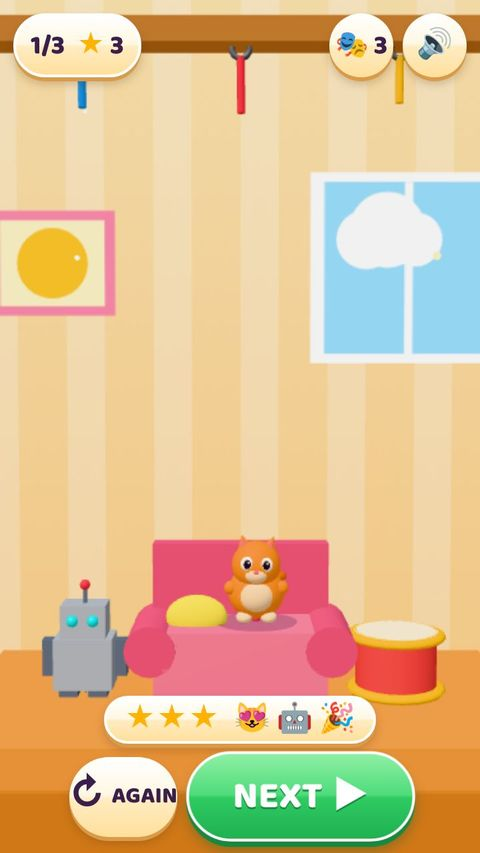
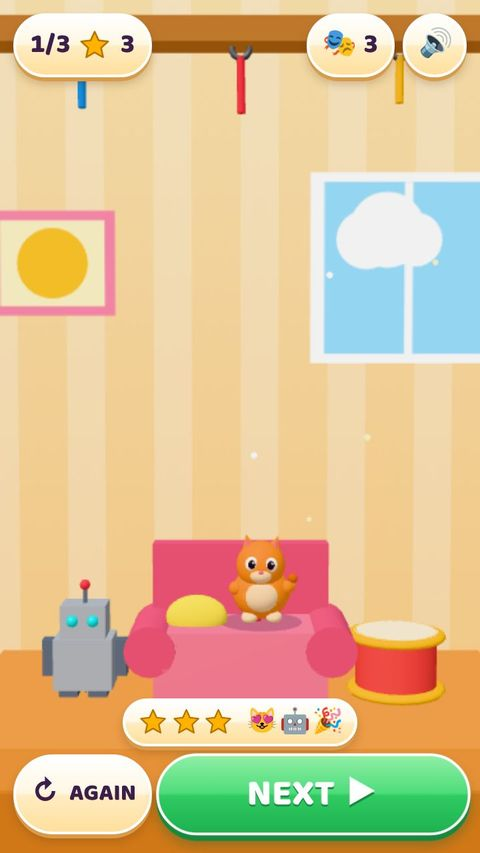
fix: Snip It HUD lays itself out on one spacing system and fits its words (#160)
The HUD was placed with loose numbers; only the prompt shrank to fit.
Now three flex zones (top row, centred column, win bar) built from three
tokens (margin 20, gap 12, control height 96), every word in a box that
shrinks to fit, icons as centred square boxes, SVG stars, RTL by
direction. New layout.js measures it in 8 languages (tolerance 2); it
caught a generic button rule wiping pill padding and borders.

Brief: prototypes/snip-it/brief.md

Claude-Session: https://claude.ai/code/session_01S4KwR7WSNC21RXJ9SR4hRZ

diff --git a/prototypes/snip-it/index.html b/prototypes/snip-it/index.html
@@ -15,45 +15,58 @@ html,body{margin:0;height:100%;background:#ffe9b8;overflow:hidden;font-family:"B
 button{font-family:inherit;font-weight:800}
 [hidden]{display:none!important}
 body{display:flex;align-items:center;justify-content:center}
-#app{position:relative;width:min(100vw,calc(100vh*9/16));height:min(100vh,calc(100vw*16/9));overflow:hidden;touch-action:none;user-select:none;-webkit-user-select:none;--u:1;--ink:#3b1f4a;--m:calc(var(--u)*20px);--g:calc(var(--u)*14px);background:#ffe9b8}
+#app{position:relative;width:min(100vw,calc(100vh*9/16));height:min(100vh,calc(100vw*16/9));overflow:hidden;touch-action:none;user-select:none;-webkit-user-select:none;--u:1;--ink:#3b1f4a;--m:calc(var(--u)*20px);--g:calc(var(--u)*12px);--h:calc(var(--u)*96px);background:#ffe9b8}
 #cv{position:absolute;inset:0;width:100%;height:100%;display:block}
-.hud{position:absolute;inset:0;pointer-events:none;color:var(--ink);font-size:calc(var(--u)*34px)}
-.hud button{pointer-events:auto;border:0;cursor:pointer;-webkit-tap-highlight-color:transparent;color:var(--ink);padding:0}
+/* HUD. One spacing system, in frame units (--u = frame width / 720):
+   --m page margin and inner padding, --g gap between neighbours, --h height of a control.
+   Three flex zones (.top, .mid, .bar) lay themselves out; nothing below is placed with a loose number. */
+.hud{position:absolute;inset:0;pointer-events:none;color:var(--ink);--b:calc(var(--u)*4px);--sh:calc(var(--u)*8px);font-size:calc(var(--h)*.42);line-height:1}
+.hud button{pointer-events:auto;cursor:pointer;-webkit-tap-highlight-color:transparent;color:var(--ink);margin:0;font-size:inherit;line-height:1}
 .hud i{font-style:normal}
-.hud.edit .pill,.hud.edit .round,.hud.edit .hand,.hud.edit .bar{display:none}
+.hud.edit .top,.hud.edit .pill,.hud.edit .mid,.hud.edit .hand,.hud.edit .bar{display:none}
 .out{--o:calc(var(--u)*4px);color:#fff;text-shadow:var(--o) 0 0 var(--ink),calc(var(--o)*-1) 0 0 var(--ink),0 var(--o) 0 var(--ink),0 calc(var(--o)*-1) 0 var(--ink),var(--o) var(--o) 0 var(--ink),calc(var(--o)*-1) var(--o) 0 var(--ink),var(--o) calc(var(--o)*-1) 0 var(--ink),calc(var(--o)*-1) calc(var(--o)*-1) 0 var(--ink),0 calc(var(--o)*2) 0 var(--ink)}
-.gloss{border:calc(var(--u)*4px) solid #fff;background:linear-gradient(#fff 0,#fff7e3 48%,#ffecc2 52%,#ffdf9c 100%);box-shadow:0 calc(var(--u)*6px) 0 #d99a4a,0 calc(var(--u)*10px) calc(var(--u)*14px) rgba(90,50,10,.25)}
-.pill{position:absolute;top:var(--m);box-sizing:border-box;height:calc(var(--u)*96px);min-width:calc(var(--u)*96px);display:flex;align-items:center;justify-content:center;gap:calc(var(--u)*8px);padding:0 calc(var(--u)*22px);border-radius:999px;font-size:calc(var(--u)*40px);line-height:1;direction:ltr}
-#lvl{left:var(--m)}
-[dir=rtl] #lvl{left:auto;right:var(--m)}
-#lvl .star{color:#ffb300;margin-inline-start:calc(var(--u)*10px)}
-#book{right:calc(var(--m) + var(--u)*96px + var(--g))}
-[dir=rtl] #book{right:auto;left:calc(var(--m) + var(--u)*96px + var(--g))}
-.round{position:absolute;top:var(--m);right:var(--m);box-sizing:border-box;width:calc(var(--u)*96px);height:calc(var(--u)*96px);border-radius:50%;font-size:calc(var(--u)*44px);display:grid;place-items:center}
-[dir=rtl] .round{right:auto;left:var(--m)}
-.prompt{position:absolute;top:calc(var(--u)*150px);left:0;right:0;text-align:center;font-size:calc(var(--u)*72px*var(--k,1));line-height:1.15;padding:0 var(--m);white-space:nowrap}
+.gloss{border:var(--b) solid #fff;background:linear-gradient(#fff 0,#fff7e3 48%,#ffecc2 52%,#ffdf9c 100%);box-shadow:0 calc(var(--sh)*.75) 0 #d99a4a,0 calc(var(--sh)*1.25) calc(var(--sh)*1.75) rgba(90,50,10,.25)}
+/* words that shrink to their box: the game sets --k (ui.js fit) */
+[data-fit]{display:block;min-width:0;white-space:nowrap;font-size:calc(var(--fs)*var(--k,1))}
+/* an icon is a square box, centred as a box whatever the glyph inside */
+.ic{flex:none;display:grid;place-items:center;width:var(--i);height:var(--i);font-size:calc(var(--i)*.86);line-height:1;--i:calc(var(--h)*.5)}
+.ic svg{display:block;width:100%;height:100%}
+.num{font-variant-numeric:tabular-nums;direction:ltr;white-space:nowrap}
+.pill{box-sizing:border-box;flex:none;height:var(--h);min-width:var(--h);display:flex;align-items:center;justify-content:center;gap:var(--g);padding:0 var(--m);border-radius:var(--h)}
+.pill.sq{width:var(--h);padding:0}
+/* top row: level and stars at the start, stickers and sound at the end */
+.top{position:absolute;top:var(--m);left:var(--m);right:var(--m);height:var(--h);display:flex;align-items:center;gap:var(--g)}
+.grow{flex:1 1 0;min-width:0}
+/* under it, centred: the words, then the place of the sticker card */
+.mid{position:absolute;top:calc(var(--m) + var(--h) + var(--g));left:var(--m);right:var(--m);display:flex;flex-direction:column;align-items:center;gap:var(--g)}
+.prompt{width:100%;text-align:center;--fs:calc(var(--h)*.75);line-height:1.2}
 .prompt.in{animation:u-pop .5s ease-out}
 @keyframes u-pop{0%{transform:scale(.4);opacity:0}70%{transform:scale(1.08);opacity:1}100%{transform:none}}
-/* the swipe hint: a finger sliding across the rope */
-.hand{position:absolute;font-size:calc(var(--u)*110px);line-height:1;margin:calc(var(--u)*-20px) 0 0 calc(var(--u)*-55px);filter:drop-shadow(0 calc(var(--u)*6px) calc(var(--u)*4px) rgba(0,0,0,.3));animation:h-swipe 1.3s ease-in-out infinite;z-index:4}
-@keyframes h-swipe{0%{transform:translateX(calc(var(--u)*-120px)) rotate(-12deg);opacity:0}15%{opacity:1}75%{transform:translateX(calc(var(--u)*120px)) rotate(12deg);opacity:1}100%{transform:translateX(calc(var(--u)*120px)) rotate(12deg);opacity:0}}
-.toast{position:absolute;top:calc(var(--u)*262px);left:50%;translate:-50% 0;display:flex;align-items:center;gap:var(--g);padding:calc(var(--u)*10px) calc(var(--u)*28px) calc(var(--u)*10px) calc(var(--u)*14px);border-radius:999px;font-size:calc(var(--u)*40px);line-height:1;white-space:nowrap;z-index:5}
-.toast i{font-size:calc(var(--u)*72px)}
+.slot{width:100%;height:var(--h);display:flex;justify-content:center}
+.toast{box-sizing:border-box;height:var(--h);max-width:100%;display:flex;align-items:center;gap:var(--g);padding:0 var(--m);border-radius:var(--h);z-index:5}
+.toast .ic{--i:calc(var(--h)*.7)}
+.toast b{--fs:calc(var(--h)*.42)}
 .toast.in{animation:t-in 1.7s ease-out forwards}
-@keyframes t-in{0%{transform:scale(.3) rotate(-8deg);opacity:0}10%{transform:scale(1.12) rotate(3deg);opacity:1}18%{transform:none}85%{opacity:1}100%{opacity:0;transform:translateY(calc(var(--u)*-30px))}}
-.cheer{position:absolute;top:calc(var(--u)*430px);left:0;right:0;text-align:center;font-size:calc(var(--u)*110px);line-height:1;color:#fff06a;z-index:5}
+@keyframes t-in{0%{transform:scale(.3) rotate(-8deg);opacity:0}10%{transform:scale(1.12) rotate(3deg);opacity:1}18%{transform:none}85%{opacity:1}100%{opacity:0;transform:translateY(calc(var(--m)*-1.5))}}
+/* the swipe hint: a finger sliding across the rope (placed by the game over the rope) */
+.hand{position:absolute;font-size:calc(var(--h)*1.15);line-height:1;margin:calc(var(--m)*-1) 0 0 calc(var(--h)*-.575);filter:drop-shadow(0 calc(var(--sh)*.75) calc(var(--sh)*.5) rgba(0,0,0,.3));animation:h-swipe 1.3s ease-in-out infinite;z-index:4}
+@keyframes h-swipe{0%{transform:translateX(calc(var(--h)*-1.25)) rotate(-12deg);opacity:0}15%{opacity:1}75%{transform:translateX(calc(var(--h)*1.25)) rotate(12deg);opacity:1}100%{transform:translateX(calc(var(--h)*1.25)) rotate(12deg);opacity:0}}
+.cheer{position:absolute;top:34%;left:var(--m);right:var(--m);text-align:center;--fs:calc(var(--h)*1.15);color:#fff06a;z-index:5}
 .cheer.in{animation:c-in 1.1s ease-out forwards}
 @keyframes c-in{0%{transform:scale(.2);opacity:0}20%{transform:scale(1.2);opacity:1}32%{transform:scale(1)}80%{opacity:1}100%{opacity:0;transform:scale(1.1)}}
-/* after a win: the scene stays alive above this bar */
-.bar{position:absolute;left:0;right:0;bottom:var(--m);display:flex;flex-direction:column;align-items:center;gap:var(--g);animation:b-up .35s ease-out;z-index:6}
+/* after a win: the scene stays alive above this block; the bottom margin leaves room for the button's shadow */
+.bar{position:absolute;left:var(--m);right:var(--m);bottom:calc(var(--m) + var(--sh));display:flex;flex-direction:column;align-items:center;gap:var(--g);animation:b-up .35s ease-out;z-index:6}
 @keyframes b-up{0%{transform:translateY(60%);opacity:0}100%{transform:none;opacity:1}}
-.got{display:flex;align-items:center;gap:var(--m);padding:calc(var(--u)*6px) calc(var(--u)*26px);border-radius:999px;font-size:calc(var(--u)*44px);line-height:1.2;direction:ltr}
-.got #barStars{color:#ffb300;letter-spacing:calc(var(--u)*2px)}
-.btns{display:flex;align-items:center;justify-content:center;gap:var(--m);width:100%}
-.again{box-sizing:border-box;height:calc(var(--u)*120px);min-width:calc(var(--u)*120px);padding:0 calc(var(--u)*26px);border-radius:999px;display:flex;align-items:center;gap:calc(var(--u)*10px);font-size:calc(var(--u)*34px);white-space:nowrap}
-.again i{font-size:calc(var(--u)*56px);line-height:1}
-.next{box-sizing:border-box;height:calc(var(--u)*130px);min-width:calc(var(--u)*330px);padding:0 calc(var(--u)*40px);border-radius:999px;display:flex;align-items:center;justify-content:center;gap:var(--g);font-size:calc(var(--u)*54px);white-space:nowrap;color:#fff!important;border:calc(var(--u)*5px) solid #fff!important;background:linear-gradient(#8ff0a6 0,#4fdc7c 48%,#2fcb62 52%,#1fb152 100%);box-shadow:0 calc(var(--u)*8px) 0 #158a3f,0 calc(var(--u)*14px) calc(var(--u)*18px) rgba(20,90,50,.35);text-shadow:0 calc(var(--u)*3px) 0 #158a3f;animation:n-pulse 1.1s ease-in-out infinite}
-@keyframes n-pulse{50%{transform:scale(1.06)}}
+.got{box-sizing:border-box;height:calc(var(--h)*.75);max-width:100%;display:flex;align-items:center;gap:var(--m);padding:0 var(--m);border-radius:var(--h);direction:ltr}
+.got .set{display:flex;align-items:center;gap:calc(var(--g)*.5)}
+.got .ic{--i:calc(var(--h)*.45)}
+.btns{width:100%;display:flex;align-items:stretch;gap:var(--g);height:calc(var(--h)*1.25)}
+.again{box-sizing:border-box;flex:0 1 auto;min-width:calc(var(--h)*1.25);max-width:45%;display:flex;align-items:center;justify-content:center;gap:var(--g);padding:0 var(--m);border-radius:var(--h)}
+.again b{--fs:calc(var(--h)*.36)}
+.next{box-sizing:border-box;flex:1 1 0;min-width:0;display:flex;align-items:center;justify-content:center;gap:var(--g);padding:0 var(--m);border-radius:var(--h);color:#fff!important;border:var(--b) solid #fff!important;background:linear-gradient(#8ff0a6 0,#4fdc7c 48%,#2fcb62 52%,#1fb152 100%);box-shadow:0 var(--sh) 0 #158a3f,0 calc(var(--sh)*1.75) calc(var(--sh)*2.25) rgba(20,90,50,.35);text-shadow:0 calc(var(--b)*.75) 0 #158a3f;animation:n-pulse 1.1s ease-in-out infinite}
+.next b{--fs:calc(var(--h)*.56)}
+.next .ic{--i:calc(var(--h)*.56)}
+@keyframes n-pulse{50%{transform:scale(1.04)}}
 @media (prefers-reduced-motion: reduce){.hud *{animation-duration:.01s!important;animation-iteration-count:1!important}}
 #load{position:fixed;inset:0;z-index:50;display:flex;align-items:center;justify-content:center;background:radial-gradient(circle at 50% 40%,#fff6d6,#ffd08a 70%);transition:opacity .3s}
 #load.out{opacity:0;pointer-events:none}

diff --git a/prototypes/snip-it/layout.js b/prototypes/snip-it/layout.js
@@ -1,0 +1,98 @@
+// PROTOTYPE - NOT FOR PRODUCTION
+// Layout check: measures the HUD in 720-unit frame space on three screens (start, sticker card, win bar) in all
+// 8 languages and reports spacing that is not on the one system: page margin M, gap G, control height H.
+// Rules: left margin = right margin = M; the top row on one line and one height; neighbours G apart; the win bar's
+// buttons from margin to margin with room for the shadow; centred things centred; every word inside its box; every
+// icon centred in its box; touch targets at least 96; no two boxes touching. Animations are off while measuring.
+// Prints observations; exits 1 when a rule is off by more than 2 units.
+// Usage: node layout.js [out folder for screens]
+const http = require('http'), fs = require('fs'), path = require('path');
+const { chromium } = require('playwright');
+const out = process.argv[2];
+const types = { '.js': 'text/javascript', '.html': 'text/html', '.json': 'application/json' };
+const server = http.createServer((q, s) => { const f = path.join(__dirname, q.url.split('?')[0] === '/' ? 'index.html' : q.url.split('?')[0]); fs.readFile(f, (e, d) => { if (e) { s.writeHead(404); return s.end(); } s.writeHead(200, { 'content-type': types[path.extname(f)] || 'text/plain' }); s.end(d); }); }).listen(0);
+const TOL = 2, M = 20, G = 12, H = 96, SHADOW = 8, BORDER = 4;
+const LANGS = { en: 'en-US', id: 'id-ID', es: 'es-ES', hi: 'hi-IN', ar: 'ar-SA', vi: 'vi-VN', bn: 'bn-BD', pt: 'pt-BR' };
+const fails = []; let oks = 0;
+const note = (ok, m) => { if (ok) oks++; else { console.log('OFF  ' + m); fails.push(m); } };
+const near = (a, b) => Math.abs(a - b) <= TOL;
+const f = (n) => (Math.round(n * 10) / 10).toString();
+
+/** Boxes of the HUD in frame units: { id: { l, t, r, b, w, h, cx, cy } } for what is shown, plus words and icons. */
+const MEASURE = () => {
+  const root = document.querySelector('#app'), R = root.getBoundingClientRect(), u = R.width / 720;
+  const box = (e) => { const r = e.getBoundingClientRect(); return { l: (r.left - R.left) / u, t: (r.top - R.top) / u, r: (r.right - R.left) / u, b: (r.bottom - R.top) / u, w: r.width / u, h: r.height / u, cx: (r.left + r.width / 2 - R.left) / u, cy: (r.top + r.height / 2 - R.top) / u }; };
+  const shown = (e) => e && !e.hidden && e.offsetParent !== null && e.getBoundingClientRect().width > 0;
+  const boxes = {};
+  for (const id of ['lvl', 'book', 'mute', 'prompt', 'toast', 'bar', 'again', 'next']) { const e = root.querySelector('#' + id); if (shown(e)) boxes[id] = box(e); }
+  const got = root.querySelector('.got'); if (shown(got)) boxes.got = box(got);
+  const words = [...root.querySelectorAll('[data-fit]')].filter(shown).map((e) => ({ id: e.id, over: e.scrollWidth - e.clientWidth, size: parseFloat(getComputedStyle(e).fontSize) / u, box: box(e) }));
+  const icons = [...root.querySelectorAll('.ic')].filter(shown).map((e) => ({ of: e.parentElement.closest('.pill,.toast,.got,.again,.next').id || 'got', box: box(e), host: box(e.parentElement.closest('.pill,.toast,.got,.again,.next')) }));
+  // the first and last child of each padded box, to compare its inner margins
+  const inner = {}; for (const [id, sel] of [['lvl', '#lvl'], ['book', '#book'], ['toast', '#toast'], ['got', '.got'], ['again', '#again'], ['next', '#next']]) { const e = root.querySelector(sel); if (!shown(e)) continue; const kids = [...e.children].filter(shown).map(box); if (kids.length) inner[id] = { l: Math.min(...kids.map((k) => k.l)) - box(e).l, r: box(e).r - Math.max(...kids.map((k) => k.r)) }; }
+  return { boxes, words, icons, inner, rtl: root.dir === 'rtl' };
+};
+
+function rules(tag, m) {
+  const B = m.boxes, say = (ok, msg) => note(ok, `${tag}: ${msg}`);
+  // top row
+  const top = ['lvl', 'book', 'mute'].map((k) => B[k]).sort((a, b) => a.l - b.l);
+  say(near(top[0].l, M) && near(720 - top[2].r, M), `top row margins left ${f(top[0].l)} / right ${f(720 - top[2].r)} (want ${M})`);
+  say(top.every((b) => near(b.t, M) && near(b.h, H)), `top row on one line, one height (tops ${top.map((b) => f(b.t)).join('/')}, heights ${top.map((b) => f(b.h)).join('/')})`);
+  const pair = m.rtl ? [top[0], top[1]] : [top[1], top[2]];
+  say(near(pair[1].l - pair[0].r, G), `sticker and sound buttons ${f(pair[1].l - pair[0].r)} apart (want ${G})`);
+  say(near(B.mute.w, H) && B.book.w >= H - TOL, `touch targets on top: sound ${f(B.mute.w)}, stickers ${f(B.book.w)} (at least ${H})`);
+  // the centred column
+  let under = M + H;
+  if (B.prompt) { say(near(B.prompt.t - under, G) && near(B.prompt.cx, 360), `prompt ${f(B.prompt.t - under)} under the top row (want ${G}), centre ${f(B.prompt.cx)}`); under = B.prompt.b; }
+  if (B.toast) say(near(B.toast.t - under, G) && near(B.toast.cx, 360) && near(B.toast.h, H) && B.toast.l >= M - TOL && B.toast.r <= 720 - M + TOL, `sticker card ${f(B.toast.t - under)} under its neighbour (want ${G}), centre ${f(B.toast.cx)}, height ${f(B.toast.h)}, inside the margins`);
+  // the win bar
+  if (B.bar) {
+    const row = [B.again, B.next].sort((a, b) => a.l - b.l);
+    say(near(row[0].l, M) && near(720 - row[1].r, M), `buttons from margin to margin (left ${f(row[0].l)}, right ${f(720 - row[1].r)})`);
+    say(near(row[1].l - row[0].r, G), `buttons ${f(row[1].l - row[0].r)} apart (want ${G})`);
+    say(near(row[0].t, row[1].t) && near(row[0].h, row[1].h) && near(row[0].h, H * 1.25), `buttons one line, one height (${f(row[0].h)} / ${f(row[1].h)}, want ${H * 1.25})`);
+    say(near(1280 - B.next.b, M + SHADOW), `button to the bottom edge ${f(1280 - B.next.b)} (want ${M} + shadow ${SHADOW})`);
+    say(near(B.again.t - B.got.b, G) && near(B.got.cx, 360), `result pill ${f(B.again.t - B.got.b)} above the buttons (want ${G}), centre ${f(B.got.cx)}`);
+    say(B.again.w >= H - TOL && B.next.w >= H - TOL, `touch targets: again ${f(B.again.w)}, next ${f(B.next.w)}`);
+    say((m.rtl ? B.next.l < B.again.l : B.next.l > B.again.l), 'NEXT sits on the reading-end side');
+  }
+  // inner margins of padded boxes: the same on both sides, and the page margin where the box is not centred content
+  for (const [id, v] of Object.entries(m.inner)) say(near(v.l, v.r) && v.l >= M + BORDER - TOL, `${id} inner margins ${f(v.l)} / ${f(v.r)} (equal, at least ${M + BORDER})`);
+  // words and icons
+  for (const w of m.words) say(w.over <= 1 && w.size >= 16, `words of ${w.id} fit their box (over by ${w.over}, size ${f(w.size)})`);
+  for (const i of m.icons) say(near(i.box.cy, i.host.cy) && near(i.box.w, i.box.h), `icon in ${i.of} centred (${f(i.box.cy - i.host.cy)} off) and square (${f(i.box.w)} x ${f(i.box.h)})`);
+  // nothing touches
+  const names = Object.keys(B).filter((k) => k !== 'bar');
+  for (let i = 0; i < names.length; i++) for (let j = i + 1; j < names.length; j++) { const a = B[names[i]], b = B[names[j]]; say(a.r <= b.l || b.r <= a.l || a.b <= b.t || b.b <= a.t, `${names[i]} and ${names[j]} do not touch`); }
+}
+
+(async () => {
+  if (out) fs.mkdirSync(out, { recursive: true });
+  const browser = await chromium.launch({ args: ['--use-gl=angle', '--use-angle=swiftshader', '--enable-unsafe-swiftshader'] });
+  const port = server.address().port;
+  for (const [lang, locale] of Object.entries(LANGS)) {
+    const page = await browser.newPage({ viewport: { width: 360, height: 640 }, deviceScaleFactor: 2, locale });
+    const errors = []; page.on('pageerror', (e) => errors.push(e.message));
+    await page.goto(`http://localhost:${port}/?local`);
+    await page.waitForFunction(() => window.__game && window.__game.W && document.fonts.status === 'loaded', null, { timeout: 40000 });
+    await page.addStyleTag({ content: '.hud *{animation:none!important;transition:none!important}' });
+    await page.waitForTimeout(300);
+    const shot = (n) => (out ? page.screenshot({ path: path.join(out, `${lang}-${n}.jpg`), type: 'jpeg', quality: 80 }) : null);
+    const swipe = async (id) => { const [x, y] = await page.evaluate((id) => { const p = __game.ropeAt(id); return __game.client(p[0], p[1]); }, id); await page.mouse.move(x - 40, y); await page.mouse.down(); await page.mouse.move(x + 40, y, { steps: 5 }); await page.mouse.up(); };
+    const ids = await page.evaluate(() => ({ gag: __game.level.items.find((x) => x.result === 'gag').id, win: __game.level.items.find((x) => x.result === 'win').id }));
+    rules(`${lang} start`, await page.evaluate(MEASURE)); await shot('1-start');
+    await swipe(ids.gag); await page.waitForFunction(() => !document.querySelector('#toast').hidden, null, { timeout: 9000 });
+    rules(`${lang} sticker card`, await page.evaluate(MEASURE)); await shot('2-card');
+    await page.waitForFunction(() => !__game.busy, null, { timeout: 9000 });
+    await swipe(ids.win); await page.waitForFunction(() => !document.querySelector('#bar').hidden, null, { timeout: 9000 }); await page.waitForTimeout(200);
+    rules(`${lang} win bar`, await page.evaluate(MEASURE)); await shot('3-bar');
+    // a narrow and a wide window: the frame scales, the rules hold
+    await page.setViewportSize({ width: 300, height: 700 }); await page.waitForTimeout(250); rules(`${lang} win bar, narrow window`, await page.evaluate(MEASURE));
+    note(errors.length === 0, `${lang}: no errors ${errors.join(' | ')}`);
+    await page.close();
+  }
+  await browser.close(); server.close();
+  console.log(fails.length ? `\n${fails.length} OFF (${oks} ok)` : `\nall ${oks} measurements on the system (M ${M}, G ${G}, H ${H}; tolerance ${TOL})`);
+  process.exit(fails.length ? 1 : 0);
+})().catch((e) => { console.error(e); process.exit(1); });

diff --git a/prototypes/snip-it/ui.js b/prototypes/snip-it/ui.js
@@ -1,50 +1,68 @@
 // PROTOTYPE - NOT FOR PRODUCTION
 // Snip It screen parts: the small HUD over the stage. Words come from the string table; almost everything is an icon.
-// All sizes are in frame units (--u = frame width / 720), set by the game on resize.
+// Three flex zones lay themselves out from the spacing tokens in index.html (--m, --g, --h): the top row, the
+// centred column under it, and the bar after a win. Every word sits in a [data-fit] box and shrinks to fit it.
+
+const STAR = '<svg viewBox="0 0 24 24" aria-hidden="true"><path d="M12 1.8l3 6.5 7.1.8-5.3 4.8 1.5 7L12 17.3l-6.3 3.6 1.5-7L1.9 9.1 9 8.3z" fill="#ffb300" stroke="#b87400" stroke-width="1.3" stroke-linejoin="round"/></svg>';
 
 export const HTML = `
 <canvas id="cv"></canvas>
 <div id="hud" class="hud">
-  <div id="lvl" class="pill gloss"><b id="lvlN">1</b><i class="star">★</i><b id="starN">0</b></div>
-  <button id="book" class="pill gloss" aria-label="stickers"><i>🎭</i><b id="gagN">0</b></button>
-  <button id="mute" class="round gloss" aria-label="sound">🔊</button>
-  <div id="prompt" class="prompt out"></div>
+  <div class="top">
+    <div id="lvl" class="pill gloss"><b id="lvlN" class="num">1</b><i class="ic">${STAR}</i><b id="starN" class="num">0</b></div>
+    <span class="grow"></span>
+    <button id="book" class="pill gloss" aria-label="stickers"><i class="ic">🎭</i><b id="gagN" class="num">0</b></button>
+    <button id="mute" class="pill sq gloss" aria-label="sound"><i class="ic">🔊</i></button>
+  </div>
+  <div class="mid">
+    <div id="prompt" class="prompt out" data-fit></div>
+    <div class="slot"><div id="toast" class="toast gloss" hidden><i id="toastI" class="ic"></i><b id="toastT" data-fit></b></div></div>
+  </div>
   <div id="hand" class="hand" hidden>👆</div>
-  <div id="toast" class="toast gloss" hidden><i id="toastI"></i><b id="toastT"></b></div>
-  <div id="cheer" class="cheer out" hidden></div>
+  <div id="cheer" class="cheer out" data-fit hidden></div>
   <div id="bar" class="bar" hidden>
-    <div class="got gloss"><span id="barStars">★★★</span><span id="barGags"></span></div>
+    <div class="got gloss"><span id="barStars" class="set"><i class="ic">${STAR}</i><i class="ic">${STAR}</i><i class="ic">${STAR}</i></span><span id="barGags" class="set"></span></div>
     <div class="btns">
-      <button id="again" class="again gloss" aria-label="again"><i>↻</i><b id="againT"></b></button>
-      <button id="next" class="next" aria-label="next"><b id="nextT"></b><i id="nextI">▶</i></button>
+      <button id="again" class="again gloss" aria-label="again"><i class="ic">↻</i><b id="againT" data-fit></b></button>
+      <button id="next" class="next" aria-label="next"><b id="nextT" data-fit></b><i id="nextI" class="ic">▶</i></button>
     </div>
   </div>
 </div>`;
+
+/** Shrinks the words of a [data-fit] box until they fit on one line (never below half size). */
+export function fit(el) {
+  if (!el || el.hidden || !el.clientWidth) return;
+  let k = 1; el.style.setProperty('--k', '1');
+  for (let i = 0; i < 4 && el.scrollWidth > el.clientWidth + 0.5 && k > 0.5; i++) { k = Math.max(0.5, k * el.clientWidth / el.scrollWidth * 0.98); el.style.setProperty('--k', String(k)); }
+}
 
 /** Handles to the HUD inside `root`, with the few things the game changes. */
 export function createUi(root) {
   const $ = (id) => root.querySelector('#' + id);
   let toastTimer = 0, cheerTimer = 0;
+  const again = (el) => { el.classList.remove('in'); void el.offsetWidth; el.classList.add('in'); };
   return {
     $,
     /** Top row: level number (1-based) of total, stars and stickers found. */
     top(level, total, stars, gags) { $('lvlN').textContent = level + '/' + total; $('starN').textContent = String(stars); $('gagN').textContent = String(gags); },
     /** The words under the top row, shrunk until they fit one line; '' hides them. */
-    prompt(text) { const p = $('prompt'); p.textContent = text; p.hidden = !text; p.style.setProperty('--k', '1'); if (text && p.scrollWidth > p.clientWidth) p.style.setProperty('--k', String(Math.max(0.4, p.clientWidth / p.scrollWidth * 0.97))); p.classList.remove('in'); void p.offsetWidth; p.classList.add('in'); },
-    /** Fits the words again (the frame or the font changed). */
-    refit() { const p = $('prompt'); if (!p.hidden) this.prompt(p.textContent); },
+    prompt(text) { const p = $('prompt'); p.textContent = text; p.hidden = !text; fit(p); again(p); },
+    /** Fits every word again (the frame, the font or the language changed). */
+    refit() { root.querySelectorAll('[data-fit]').forEach(fit); },
     /** The swipe hint over frame point (x, y); null hides it. */
     hand(at) { const h = $('hand'); h.hidden = !at; if (at) { h.style.left = `calc(var(--u)*${at[0]}px)`; h.style.top = `calc(var(--u)*${at[1]}px)`; } },
-    /** A sticker card that pops in near the top and leaves by itself. */
-    toast(icon, text) { const t = $('toast'); $('toastI').textContent = icon; $('toastT').textContent = text; t.hidden = false; t.classList.remove('in'); void t.offsetWidth; t.classList.add('in'); clearTimeout(toastTimer); toastTimer = setTimeout(() => { t.hidden = true; }, 1700); },
-    cheer(text) { const c = $('cheer'); c.textContent = text; c.hidden = false; c.classList.remove('in'); void c.offsetWidth; c.classList.add('in'); clearTimeout(cheerTimer); cheerTimer = setTimeout(() => { c.hidden = true; }, 1100); },
-    /** The bottom bar after a win: words for the buttons, stickers found in this level as shown icons. */
+    /** A sticker card that pops in under the words and leaves by itself. */
+    toast(icon, text) { const t = $('toast'); $('toastI').textContent = icon; $('toastT').textContent = text; t.hidden = false; fit($('toastT')); again(t); clearTimeout(toastTimer); toastTimer = setTimeout(() => { t.hidden = true; }, 1700); },
+    cheer(text) { const c = $('cheer'); c.textContent = text; c.hidden = false; fit(c); again(c); clearTimeout(cheerTimer); cheerTimer = setTimeout(() => { c.hidden = true; }, 1100); },
+    /** The bar after a win: words for the buttons, stickers found in this level as icons (❔ for the rest). */
     bar(show, words, found, rtl) {
       const b = $('bar'); b.hidden = !show; if (!show) return;
       $('nextT').textContent = words.next; $('againT').textContent = words.again; $('nextI').textContent = rtl ? '◀' : '▶';
-      $('barGags').textContent = found.map((f) => (f.got ? f.icon : '❔')).join(' ');
+      const gags = $('barGags'); gags.textContent = '';
+      for (const f of found) { const i = document.createElement('i'); i.className = 'ic'; i.textContent = f.got ? f.icon : '❔'; gags.appendChild(i); }
+      fit($('nextT')); fit($('againT'));
     },
-    muteIcon(muted) { $('mute').textContent = muted ? '🔇' : '🔊'; },
+    muteIcon(muted) { $('mute').firstElementChild.textContent = muted ? '🔇' : '🔊'; },
     clear() { clearTimeout(toastTimer); clearTimeout(cheerTimer); },
   };
 }

diff --git a/prototypes/snip-it/game.js b/prototypes/snip-it/game.js
@@ -83,7 +83,7 @@ function startGame(mode) {
     if (!show) return ui.hand(null);
     const it = !save.learned ? level.items.find((x) => x.result === 'win') : level.items.find((x) => !W.ropes.find((r) => r.id === x.id).cut);
     if (!it) return ui.hand(null);
-    ui.hand(scene.screenOf(it.rope.ax, it.rope.ay - 1.5));
+    ui.hand(scene.screenOf(it.rope.ax, it.rope.ay - 1.25));
   }
   function loadLevel(i) {
     index = ((i % LEVELS.length) + LEVELS.length) % LEVELS.length;

diff --git a/ASTROCADE.md b/ASTROCADE.md
@@ -81,6 +81,7 @@ Semua terjadi di sesi Pinata Maker 2026-11-18. Tiap butir: apa yang salah, lalu 
 45. **Cache posisi harus dibatalkan oleh setiap hal yang mengubahnya** (2026-11-23): cache kotak baris status membuat spanduk salah tempat karena chip misi disembunyikan di frame yang sama. Uji tampilan menangkapnya; uji cepat tidak.
 46. **"Gak boleh keliatan nembus objek"** (Paws & Chaos, 2026-11-23; user yang menemukan): collider hanya untuk badan; kamera tanpa tabrakan, kepala/ekor kucing, sudut balok, anyaman keranjang, tepi kasur/kolam, batang bunga, kupu-kupu tidak punya bentuk padat; solusi awalku menyembunyikan mainan di depan kamera = tetap terlihat "tembus". *Aturan:* tiap benda yang terlihat punya collider seukuran tintanya (atau melentur: bunga, ekor melengkung), kamera raycast ke semua collider + mundur/naik/berputar, kepala & ekor = lingkaran tabrak sendiri setinggi bagiannya; uji: kamera 16 titik × 8 arah tak di dalam/di balik benda padat, ujung hidung & ekor (posisi dunia dari rig) tak di dalam collider, tiap perbaikan dibuktikan mutan. `rm -rf` kuulangi lagi di perintah mutan (ditolak sistem): cek gores pakai nama folder baru saja.
 47. **Analisis AI lain dicek dulu sebelum dipakai** (jawaban Gemini, 2026-11-24): angka plays-nya benar, tapi ia menyebut leaderboard Rub It Away "hilang tak sengaja" padahal dihapus sengaja oleh wish user, dan menyarankan mengembalikan blok config padahal kode tidak punya satu pun `addPlayerScoreToLeaderboard`; ia juga tidak menyebut kompetisi hanya untuk 25 kreator terpilih. *Aturan:* klaim per game dicek dengan `search_game_files` + `list_versions`, klaim platform dengan sumber resmi; detail tanpa sumber (DynamoDB, "static AST scanner", bobot sinyal, tarif payout, demografi) diperlakukan sebagai tebakan dan dilaporkan begitu. Dan sebaliknya: aku menyebut tarif payout Gemini "tidak ditemukan" hanya dari satu pencarian web, padahal benar dan ada di chunk halaman Earn; "tidak kutemukan" bukan "salah", cek sumber primer (kode aplikasi) sebelum membantah.
+48. **HUD lahir tanpa uji jarak** (Snip It, 2026-11-24; user: "layout teks/ikon harus auto resize fleksibel tapi rapi presisi"): tahap 1 memakai posisi absolut dan angka lepas, padahal aturan "Margin presisi" sudah ada; begitu `layout.js` ditulis ia langsung menangkap dua bug (`.hud button{padding:0;border:0}` menghapus padding dan bingkai pil). *Aturan:* HUD baru = zona flex + tiga token (`--m`, `--g`, `--h`) + semua teks di kotak `data-fit` yang menyusut sendiri, dan `layout.js` (8 bahasa, toleransi 2 unit, contoh `prototypes/snip-it/layout.js`) ditulis bersama HUD-nya, bukan menyusul; aturan CSS umum untuk `button` tidak boleh menyetel padding/border.
 
 ### 1. Pasar Astrocade (data 2026-11-17 dan 18; ukur ulang sebelum memilih game baru)
 - **Tipe tercepat (19 Nov 12.00 UTC, 132 game teratas, plays/jam diukur 2× selang 33 menit):** bikin/DIY bertahap total terbesar (23,8rb/jam dari 16 game; Lip Art, Woodturner, Oreo, Squishy, Phone Case); hancurkan/usil rata-rata tertinggi (2,1rb/jam per game; Smash Everything, Prank City, Kaiju City); gambar 1,7rb/game (Draw One Part #1 live 5rb/jam). **Sedang menanjak** (laju live ×24 jauh di atas harian): Kaiju City ×7,7 (3 hari), Mind Flip ×2 (teka-teki doodle 46 level), Oreo Master, Dalgona 2. **Sedang turun:** runner morph/gerbang (Morph Race, Gym Masters, Snack Frenzy ×0,7–1,0) dan Space Survivor (#1 harian, kini ×0,4). Rasio median ±1,4 karena jam ramai; bandingkan dengan itu.

diff --git a/prototypes/snip-it/README.md b/prototypes/snip-it/README.md
@@ -4,6 +4,7 @@ PROTOTYPE - NOT FOR PRODUCTION. Brief: `brief.md`. Status: stage 1 of 4 (engine 
 
 - Run: serve this folder and open `/?local` (the tests do it themselves). `?local&mode=edit` for edit mode, `&speed=2` to run fast.
 - Tests: `node physics.test.mjs` (rules, Node only), `node playtest.js <out>` (a child's play in a browser, 8 languages).
+- Spacing: `node layout.js [out]` measures the HUD in 8 languages against the one spacing system (margin 20, gap 12, control height 96; tolerance 2). Change the HUD only through the tokens `--m`, `--g`, `--h` in `index.html`.
 - Upload text: `README.upload.md`. Evidence: `production/qa/evidence/snip-it/`.
 
 ## Stages
